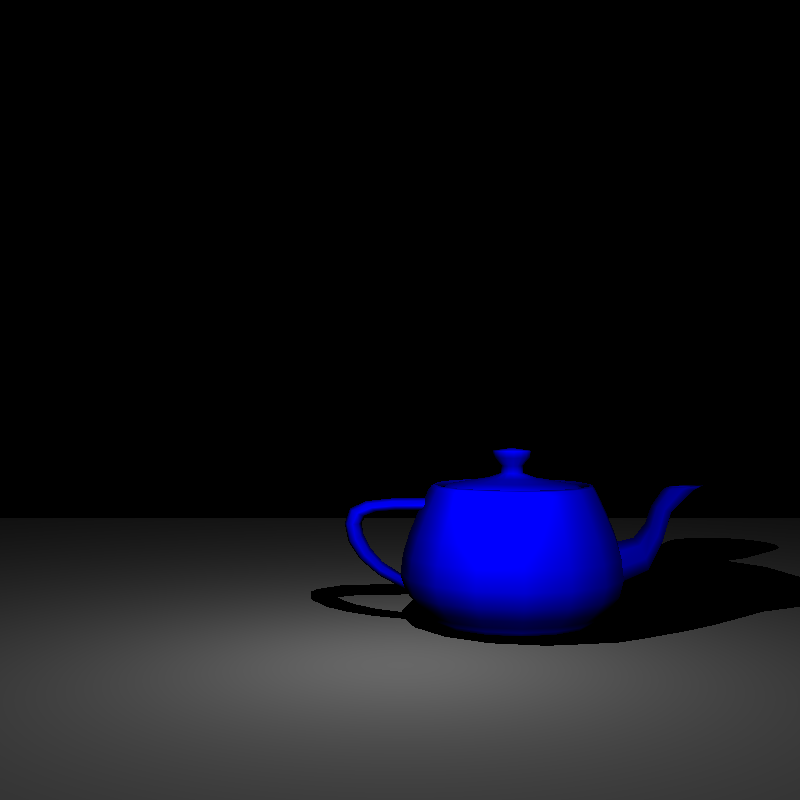
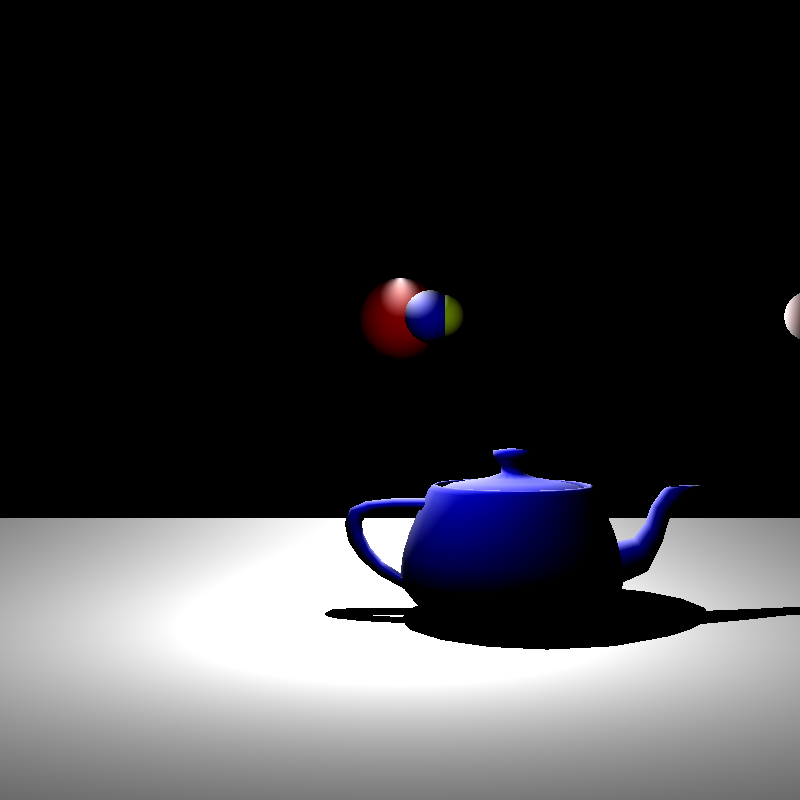
Raytracer v0.9
Raytracer now includes a blinn-phong material

diff --git a/src/edu/up/isgc/raytracer/Raytracer.java b/src/edu/up/isgc/raytracer/Raytracer.java
@@ -28,13 +28,13 @@ public class Raytracer {
         System.out.println(new Date());
         Scene scene01 = new Scene();
         scene01.setCamera(new Camera(new Vector3D(0, 0, -8), 160, 160, 800, 800, 0f, 50f));
-        scene01.addLight(new DirectionalLight(Vector3D.ZERO(), new Vector3D(0.0, -0.5, 1.0), Color.WHITE, 1.8));
-        //scene01.addLight(new PointLight(new Vector3D(0f,1.0f,0.5f), Color.WHITE,1.8));
-        //scene01.addObject(new Sphere(new Vector3D(0f, 1f, 5f), 0.5f, Color.RED));
-        //scene01.addObject(new Sphere(new Vector3D(0.5f, 1f, 4.5f), 0.25f, new Color(200, 255, 0)));
-        //scene01.addObject(new Sphere(new Vector3D(0.35f, 1f, 4.5f), 0.3f, Color.BLUE));
-        //scene01.addObject(new Sphere(new Vector3D(4.85f, 1f, 4.5f), 0.3f, Color.PINK));
-        //scene01.addObject(new Sphere(new Vector3D(2.85f, 1f, 304.5f), 0.5f, Color.BLUE));
+        //scene01.addLight(new DirectionalLight(Vector3D.ZERO(), new Vector3D(0.0, -0.5, 1.0), Color.WHITE, 1.8));
+        scene01.addLight(new PointLight(new Vector3D(0f,1.0f,0.5f), Color.WHITE,1.8));
+        scene01.addObject(new Sphere(new Vector3D(0f, 1f, 5f), 0.5f, Color.RED));
+        scene01.addObject(new Sphere(new Vector3D(0.5f, 1f, 4.5f), 0.25f, new Color(200, 255, 0)));
+        scene01.addObject(new Sphere(new Vector3D(0.35f, 1f, 4.5f), 0.3f, Color.BLUE));
+        scene01.addObject(new Sphere(new Vector3D(4.85f, 1f, 4.5f), 0.3f, Color.PINK));
+        scene01.addObject(new Sphere(new Vector3D(2.85f, 1f, 304.5f), 0.5f, Color.BLUE));
         scene01.addObject(new Polygon(new Vector3D(0f, -2f, 0f), new Triangle[]{new Triangle(new Vector3D(10f,0f,10f), new Vector3D(-10f,0f,10f), new Vector3D(-10f,0f,-10f)),
                 new Triangle(new Vector3D(-10f,0f,-10f), new Vector3D(10f,0f,-10f), new Vector3D(10f,0f,10f))}, Color.WHITE));
         //scene01.addObject(OBJReader.GetPolygon("Cube.obj", new Vector3D(0f, -2.5f, 1f), Color.WHITE));
@@ -82,12 +82,16 @@ public class Raytracer {
                         float intensity = (float) light.getIntensity() * nDotL;
                         float lightRange = intensity / (float) Vector3D.magnitude(Vector3D.substract(closestIntersection.getPosition(),light.getPosition()));
                         //float lightRange = intensity / (float) Math.pow(Vector3D.magnitude(Vector3D.substract(closestIntersection.getPosition(),light.getPosition())),2) ;
+                        double specular = specular(closestIntersection, ray, light);
                         Color lightColor = light.getColor();
                         Color objColor = closestIntersection.getObject().getColor();
                         float[] lightColors = new float[]{lightColor.getRed() / 255.0f, lightColor.getGreen() / 255.0f, lightColor.getBlue() / 255.0f};
                         float[] objColors = new float[]{objColor.getRed() / 255.0f, objColor.getGreen() / 255.0f, objColor.getBlue() / 255.0f};
                         for (int colorIndex = 0; colorIndex < objColors.length; colorIndex++) {
                             objColors[colorIndex] *= lightRange * lightColors[colorIndex];
+                            if (specular > 0) {
+                                objColors[colorIndex] += lightColors[colorIndex] * specular;
+                            }
                         }
                         Color diffuse = new Color(clamp(objColors[0], 0, 1),clamp(objColors[1], 0, 1),clamp(objColors[2], 0, 1));
                         if (shadow != null){
@@ -138,7 +142,29 @@ public class Raytracer {
                 }
             }
         }
-
         return closestIntersection;
+    }
+
+    public static double specular(Intersection intersection, Ray ray, Light light){
+        Vector3D lightDirection;
+        if (light instanceof DirectionalLight) {
+            lightDirection = Vector3D.normalize(((DirectionalLight) light).getDirection());
+        } else {
+            lightDirection = Vector3D.normalize(((PointLight) light).getDirection(intersection));
+        }
+        Vector3D viewDirection = Vector3D.normalize(ray.getDirection());
+
+        Vector3D lightSourceViewer = Vector3D.normalize(Vector3D.add(viewDirection, lightDirection));
+        Vector3D halfVector = Vector3D.normalize(Vector3D.scalarMultiplication(lightSourceViewer,1/Vector3D.magnitude(lightSourceViewer)));
+
+        double nDotH = Vector3D.dotProduct(intersection.getNormal(), halfVector);
+        double specular = Math.pow(nDotH, 1);
+
+        //System.out.println(nDotH);
+
+        if (nDotH > 0){
+            return specular;
+        }
+            return 0;
     }
 }

diff --git a/src/edu/up/isgc/raytracer/lights/PointLight.java b/src/edu/up/isgc/raytracer/lights/PointLight.java
@@ -17,6 +17,11 @@ public class PointLight extends Light {
         super(position, color, intensity);
     }
 
+    public Vector3D getDirection(Intersection intersection) {
+        Vector3D direction = Vector3D.substract(getPosition(), intersection.getPosition());
+        return direction;
+    }
+
     @Override
     public float getNDotL(Intersection intersection) {
         return (float) Math.max(Vector3D.dotProduct(intersection.getNormal(),
